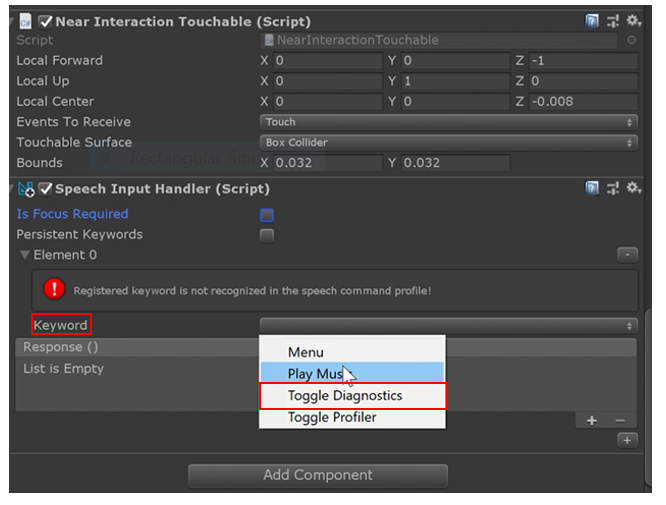
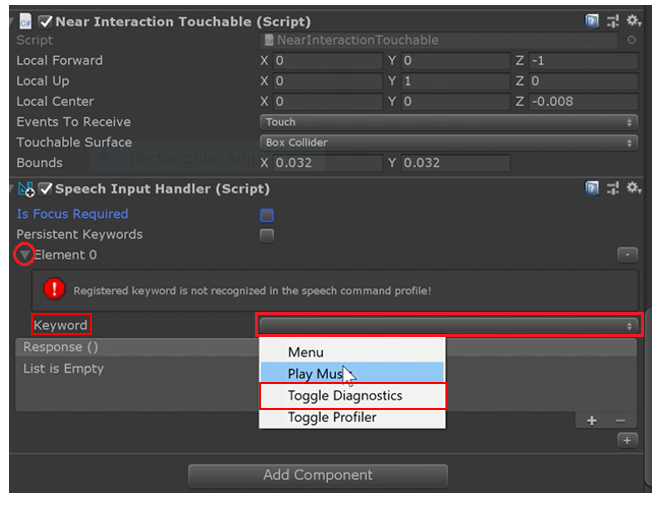
Addressing remaining feedback items through lesson 5

diff --git a/mixed-reality-docs/mrlearning-base-ch4.md b/mixed-reality-docs/mrlearning-base-ch4.md
@@ -28,33 +28,28 @@ In this lesson, we will go through basic 3D content and user experience. We will
 
 ![Lesson4 Chapter1 Step1im](images/Lesson4_Chapter1_step1im.PNG)
 
-2. Import BaseModule Assets Using the same instructions to import custom packages outlined in [Lesson1](mrlearning-base-ch1.md). The BaseModule assets include 3D modules and other useful scripts that will be used throughout this tutorial. The BaseModule unity package can be found here: <https://github.com/mr0ng/MixedRealityLearning/releases/tag/V1.1>
-
-   TODO: Check this link whether it works or not.
+2. Import BaseModule Assets Using the same instructions to import custom packages outlined in [Lesson1](mrlearning-base-ch1.md). The BaseModule assets include 3D modules and other useful scripts that will be used throughout this tutorial. The BaseModule unity package can be found here: <https://github.com/Microsoft/MixedRealityLearning/releases/tag/V1.1>
 
 3. The coffee cup prefab can be recognized by a blue cube next to it. Do not select the coffee cup with the blue cube and small white paper (that denotes the original 3D model and not the prefab.) 
 
 ![Lesson4 Chapter1 Noteaim](images/Lesson4_chapter1_noteaim.PNG)
-
->
 
 4. Drag the coffee cup prefab of your choice into the "3DObjectCollection" game object from step 1. The coffee cup is now a child of the collection.
 
 ![Lesson4 Chapter1 Step4ima](images/Lesson4_chapter1_step4ima.PNG)
 
 5. Next, we'll add more 3D objects into our scene. Below is a list of objects we are going to add in this example. As you add the objects you may find that they appear in your scene in various sizes. Adjust the scale of each 3D model under the transform setting in the inspector panel. Recommended adjustments for this example are listed with the objects below. 
-Search these words in the search box in your project panel and drag the 3D object prefab into the "3DObjectCollection" object similar to the previous step:
-- Search for “module.” Add TheModule. Set the scale to x = 0.03, y = 0.03, z = 0.03. 
-- Search for “Octa.” Add Octa. Set the scale to x = 0.13. y = 0.13, z =0.13.
-- Search for “earth.” Add EarthCore. Set the scale to x = 50.0 y = 50.0, z = 50.0.
-- Search for “Cheese.” Add Cheese. Set the scale to x = 0.05, y = 0.05, z = 0.05.
-- TODO: investigate why cheese is giving us problems - update prefab
-- Search for “platonic.” Add Model_Platonic. Set the scale to x = 0.13, y = 0.13, z = 0.13.
-- TODO: Add coffee cub scale
+Search these words in the search box in your project panel and drag the 3D object prefab into the "3DObjectCollection" object similar to the previous step. You will find these collection of prefabs in Assets>BaseModuleAssets>Base Module Prefabs
+- Search for “TheModule_BaseModuleIncomplete.” Drag into scene. Set the scale to x = 0.03, y = 0.03, z = 0.03. 
+- Search for “Octa_BaseModuleIncomplete.” Drag into scene. Set the scale to x = 0.13. y = 0.13, z =0.13.
+- Search for “EarthCore_BaseModuleIncomplete.” Drag into scene. Set the scale to x = 50.0 y = 50.0, z = 50.0.
+- Search for “Cheese_BaseModuleIncomplete.” Drag into scene. Set the scale to x = 0.05, y = 0.05, z = 0.05.
+- Search for “Model_Platonic_BaseModuleIncomplete.” Drag into scene. Set the scale to x = 0.13, y = 0.13, z = 0.13.
+- Search for "CoffeeCup_BaseModuleIncomplete." Drag into scene.
 
 ![Lesson4 Chapter1 Step5im](images/Lesson4_Chapter1_step5im.PNG)
 
-6. Add 3 cubes into your scene. Right click the “3DObjectCollection” object, select “3D Object”, then select “Cube.” Set the scale to x = 0.14, y = 0.14, and z = 0.14. Repeat this step 2 additional times to create a total of 3 cubes. Alternatively, you may duplicate the cube twice for a total of 3 cubes. 
+6. Add 3 cubes into your scene. Right click the “3DObjectCollection” object, select “3D Object”, then select “Cube.” Set the scale to x = 0.14, y = 0.14, and z = 0.14. Repeat this step 2 additional times to create a total of 3 cubes. Alternatively, you may duplicate the cube twice for a total of 3 cubes. You may also choose to use the three prepared cube prefabs from Assets>BaseModuleAssets>Base Module Prefabs and select GreenCube_BaseModuleIncomplete, BlueCube_BaseModuleIncomplete and OrangeCube_BaseModuleIncomplete.
 
 ![Lesson4 Chapter1 Step6im](images/Lesson4_Chapter1_step6im.PNG)
 
@@ -63,12 +58,6 @@ Search these words in the search box in your project panel and drag the 3D objec
 ![Lesson4 Chapter1 Notebim](images/Lesson4_chapter1_notebim.PNG)
 
 >Note: You may notice that some of the objects are off-center, such as the objects in the image above. This is because prefabs or objects may have child objects that are not aligned. Feel free to make any necessary adjustments to object positions or child object positions to achieve a well-aligned grid.
-
-TODO: update prefabs so that things are better aligned by default
-
-TODO: change surface type from sphere to plane
-
-TODO: make sure parent object alignment is good
 
 
 ### Manipulating 3D Objects
@@ -83,8 +72,6 @@ TODO: make sure parent object alignment is good
 ![Lesson4 Chapter2 Step1im](images/Lesson4_chapter2_step1im.PNG)
 
 >The manipulation handler is a component that will allow you to adjust settings for how objects behave when being manipulated. This includes rotation, scaling, moving, and constraining movement on certain axes. 
-
-
 
 2. Restrict one cube so that it can only be scaled. Select one cube in the “3DObjectCollection” object. In the inspector panel, next to “two handed manipulation type,” click the drop-down menu and select “scale.” This makes it so that the user can only change the cube’s size.
 
@@ -112,15 +99,13 @@ Goal of the next few steps: We will enable grab and interaction with our 3D obje
 
 ![Lesson4 Chapter2 Step6im](images/Lesson4_Chapter2_step6im.PNG)
 
-7. Add “Near Interaction Grabbable” to the Octa object and the Platonic object  by repeating step 5 and 6 on those objects.
+7. Add “Near Interaction Grabbable” to the Octa object, Platonic object, earth core, lunar module, and coffee cup  by repeating step 5 and 6 on those objects.
 
 8. Remove the ability of far manipulation from the Octa object. To do this, select the Octa in the hierarchy, and uncheck the “allow far manipulation” checkbox (marked by a green circle). This makes it so that users can only interact with the octa directly using tracked hands.
 
 >Note: For the full documentation of the manipulation handler component and it's associated settings, please refer to the [MRTK Documentation](https://microsoft.github.io/MixedRealityToolkit-Unity/Documentation/README_ManipulationHandler.html).
 
-9. Add the near interaction grabbable component to the earth core, the lunar module and the coffee cup by repeating step 5 and 6 on those objects.
-
-   TODO: Combine steps 7 and 9, since they are the same steps
+9. Ensure that the "Near Interaction Grabbable" component has been added to the earth core, the lunar module and the coffee cup (see step 7).
 
 10. For the lunar module, change the Manipulation Handler settings so that it rotates about the object's center for both near and far interaction, as shown in the image below.
 
@@ -128,19 +113,16 @@ Goal of the next few steps: We will enable grab and interaction with our 3D obje
 
 11: For the earth core, change the release behavior to “nothing.” This makes it so that once the earth core is released from the users’ grasp, it doesn’t continue to move. 
 
-TODO: 
-
 ![Lesson4 Chapter2 Step11im](images/Lesson4_Chapter2_step11im.PNG)
 
 > Note: This setting is useful for scenarios such as creating a ball that you can throw. Keeping the velocity and the angular velocity makes it so that once the ball is released it will continue to move at the velocity it was released at, similar to how a physical ball would behave.
 
 ### Adding Bounding Boxes
 Bounding boxes make it easier and more intuitive to manipulate objects with one hand for both direct manipulation (near interaction) and ray-based manipulation (far interaction.) Bounding boxes offer "handles" that can be grabbed for scaling and rotating objects along specific axes.
->Note: Before you can add a bounding box to an object you first need to have a collider on the object (e.g., a box collider.) - TODO - say that we covered this above, provide brief instructions.
+>Note: Before you can add a bounding box to an object you first need to have a collider on the object (e.g., a box collider.) As we did previously in this lesson. Colliders can be added by selecting the object, and in the object's inspector panel selecting Add Component>Box Collider.
 >
->TODO: change earth core so that users don't have to deal with node_id30 (may already be fixed with RC1)
 
-1. Add a box collider to the earth core object, if one does not already exist. In the case of the earth core, we will need to add the box collider to the "node_id30" object underneath the earth core, as shown in the image below. select node_id30 and in the object's inspector tab, click “add component” and search for “box collider.” 
+1. Add a box collider to the earth core object, if one does not already exist (box collider and setup not required if using the prefab provided in the Base Module Assets folder, per the instructions given.) In the case of the earth core, we will need to add the box collider to the "node_id30" object underneath the earth core, as shown in the image below. select node_id30 and in the object's inspector tab, click “add component” and search for “box collider.” 
 
 ![Lesson4 Chapter3 Step1im](images/Lesson4_Chapter3_step1im.PNG)
 
@@ -174,7 +156,7 @@ Bounding boxes make it easier and more intuitive to manipulate objects with one 
 
 ![Lesson4 Chapter3 Step8im](images/Lesson4_Chapter3_step8im.PNG)
 
-9. To return to the default bounding box visualization, in the inspector panel of the bounding box's object, select the rotation handle prefab and press the delete key, you will now see a bounding box visualization similar to the image below. TODO: this only shows up in play mode.
+9. To return to the default bounding box visualization, in the inspector panel of the bounding box's object, select the rotation handle prefab and press the delete key, you will now see a bounding box visualization similar to the image below. Note: the bounding box visualizations only appears when in play mode.
 
 ![Lesson4 Chapter3 Step9im](images/Lesson4_chapter3_step9im.PNG)
 
@@ -202,7 +184,7 @@ In this example, we are going to play a sound effect when you touch an object wi
 
 4. Click the “+” button on the “on touch started” option, as shown in the image below. Drag the octa object into the empty field. 
 
-5. TODO: add description on how to get from "no function" to playoneshot.... Select "AudioSource.PlayOneShot" from the dropdown list (the dropdown list above the green box in the image below.) We will add an audio clip to this field using the concepts below:
+5. In the drop-down that says "no function" (above green rectangle in the image below), select AudioSource> PlayOneShot. We will add an audio clip to this field using the concepts below:
 
    - The MRTK does provide a small list of audio clips. Feel free to explore these in your project panel. You will find them under the “MixedRealityToolkit.SDK” folder and then the “standard assets” folder. There you will see an “audio” folder where all the audio clips are.
    - For this example, we are going to use the "MRTK_Gem" audio clip. 

diff --git a/mixed-reality-docs/mrlearning-base-ch5.md b/mixed-reality-docs/mrlearning-base-ch5.md
@@ -55,11 +55,11 @@ By default, you will see 2 checkboxes, one is the “is focus required” checkb
 
 ![Lesson5 Chapter1 Step5im](images/Lesson5_chapter1_step5im.PNG)
 
-6. Next to “Keyword” you will see a dropdown menu. Select “Toggle Diagnostics.” This will make it so that whenever the user says the phrase, “toggle diagnostics” it will trigger an action. TODO: add note that you may need to expand "element 0" by pressing the arrow next to it.
+6. Next to “Keyword” you will see a dropdown menu. Select “Toggle Diagnostics.” This will make it so that whenever the user says the phrase, “toggle diagnostics” it will trigger an action. Note that you may need to expand "element 0" by pressing the arrow next to it.
 
 ![Lesson5 Chapter1 Step6im](images/Lesson5_chapter1_step6im.PNG)
 
-7. Add the “diagnostics demo control script” to toggle the framerate counter diagnostic on and off. To do this, press the “add component” button and search for “diagnostics demo control script” then add it from the menu. This script can be added to any object, but for simplicity, we will add it to the same object as the speech input handler. TODO: split screenshot into two screenshots, one for step 7 and another for step 8.
+7. Add the “diagnostics demo control script” to toggle the framerate counter diagnostic on and off. To do this, press the “add component” button and search for “diagnostics demo control script” then add it from the menu. This script can be added to any object, but for simplicity, we will add it to the same object as the speech input handler. 
 
    > Note: this script is only included with these modules and is not included with the original MRTK.
 
@@ -67,21 +67,20 @@ By default, you will see 2 checkboxes, one is the “is focus required” checkb
 
 8. Add a new response in the Speech Input Handler. To do this click the “+” button underneath where it says “response ()” (marked by green arrow in the picture above).
 
-
+![Lesson5 Chapter1 Step7im](images/Lesson5_chapter1_step8.PNG)
 
 9. Drag the object that has the Diagnostics Demo Controls script to the new response you just created in step 8.
     ![Lesson5 Chapter1 Step9im](images/Lesson5_chapter1_step9im.PNG)
 
-10. Now select the “no function” dropdown list, select diagnostic demo controls, then “on toggle diagnostics ().” This function toggles your diagnostics on and off. TODO: this number 10 appears as the letter j on docs website - see what might be happening. May have just fixed it by indenting.
-     ![Lesson5 Chapter1 Step10im](images/Lesson5_chapter1_step10im.PNG)
-
-    > Note that before building to your device you need to enable mic settings. To do that click on file, go to build settings, from there, player settings, and ensure the microphone capability is set.
+10. Now select the “no function” dropdown list, select diagnostic demo controls, then “on toggle diagnostics ().” This function toggles your diagnostics on and off.  ![Lesson5 Chapter1 Step10im](images/Lesson5_chapter1_step10im.PNG)
+    
+> Note that before building to your device you need to enable mic settings. To do that click on file, go to build settings, from there, player settings, and ensure the microphone capability is set.
 
 Next, we are adding the ability to play an audio file from voice command using the "octa" object. Recall from [lesson 4](mrlearning-base-ch4.md), we added the ability to play an audio clip from touching the octa object. We will leverage this same audio source for our music voice command.
 
 11. Select the octa object in the base scene hierarchy.
 
-12. Repeat steps 4 and 5, but with the octa object. TODO: expand on what needs to be done, but then refer back to steps 4 and 5, so that users have an idea of what to do.
+12. Add another speech input handler (repeat steps 4 and 5), but with the octa object. 
 
 13. Instead of adding the “Toggle Diagnostics” voice command from step 6, add the “play music” voice command, as shown in the image below.
     
@@ -135,8 +134,6 @@ To use the pan gesture, you will need a collider on your object. You may see the
 
 ![Lesson5 Chapter2 Step8im](images/Lesson5_chapter2_step8im.PNG)
 
-TODO: make sure checkmarks are in the two boxes above.
-
 9. In the hand interaction pan script, the “lock horizontal” and “lock vertical” checkboxes will lock the movements, respectively. The wrap texture settings will make the texture (texture mapping) follow the user's pan movements. For this example, we are going to check that box. There is also “velocity active” which, if unchecked, the pan gesture will not work. Check this box as well. Now you should have a pan-enabled quad.
 
    
@@ -169,14 +166,19 @@ TODO: make sure checkmarks are in the two boxes above.
 
 In this chapter, we will explore how to enable eye tracking in our demo. We will slowly spin our 3D menu items when they are being gazed upon with eye gaze. We will also trigger a fun effect when the gazed-upon item is selected.
 
-1. Ensure the Mixed Reality Toolkit profiles are properly configured. As of this writing, the mixed reality toolkit profile configuration does not include eye tracking capabilities by default. To add eye tracking capabilities, follow the instructions in the “Setting up the MRTK profiles required for Eye Tracking” section as outlined in the Mixed Reality Toolkit Documentation (https://microsoft.github.io/MixedRealityToolkit-Unity/Documentation/EyeTracking/EyeTracking_BasicSetup.html#setting-up-the-mrtk-profiles-required-for-eye-tracking  ). Ensure that eye tracking is properly configured by following any remaining steps in the documentation link above, including enabling eye tracking in GazeProvider (component attached to camera) and enabling simulation of eye tracking in the Unity editor. Note that future version of the MRTK may include eye tracking by default.
+1. Ensure the Mixed Reality Toolkit profiles are properly configured. As of this writing, the mixed reality toolkit profile configuration does not include eye tracking capabilities by default. To add eye tracking capabilities, follow the instructions in the “Setting up the MRTK profiles required for Eye Tracking” section as outlined in the [Mixed Reality Toolkit Documentation](https://microsoft.github.io/MixedRealityToolkit-Unity/Documentation/EyeTracking/EyeTracking_BasicSetup.html#setting-up-the-mrtk-profiles-required-for-eye-tracking  ). Ensure that eye tracking is properly configured by following any remaining steps in the documentation link above, including enabling eye tracking in GazeProvider (component attached to camera) and enabling simulation of eye tracking in the Unity editor. Note that future version of the MRTK may include eye tracking by default.
 
-    Todo: provide the user with some brief instructions for eye tracking so they don't have to go to the MRTK link.
+    The link above provides brief instructions for:
 
-2. Add the Eye Tracking Target component to target objects. To allow an object to respond to eye gaze events, we will need to add the EyeTrackingTarget component on each object that we wish to interact with using eye gaze. Tip: select multiple items in the hierarchy to bulk-add the EyeTrackingTarget component.
+    - Creating the Eye Gaze Data Provider for use in the MRTK Profile
+    - Enabling eye tracking in the Gaze Provider
+    - Set up for simulating eye tracking in the editor
+    - Editing the Visual Studio solution's capabilities to allow eye tracking in the built application
+
+2. Add the Eye Tracking Target component to target objects. To allow an object to respond to eye gaze events, we will need to add the EyeTrackingTarget component on each object that we wish to interact with using eye gaze. Add this component to each of the nine 3D objects that are part of the grid collection. Tip: select multiple items in the hierarchy to bulk-add the EyeTrackingTarget component.
     ![Lesson5 Chapter3 Step2](images/Lesson5Chapter3Step2.JPG)
 
-3. Next we will add the EyeTrackingTutorialDemo script for some exciting interactions. The EyeTrackingTutorialDemo script is included as part of this tutorial series’ repository and is not included by default with the Mixed Reality Toolkit. For... TODO: rename 3D menu item.... each 3D menu item, add the EyeTrackingTutorialDemo script by searching for the component in the “Add Component” menu. TODO: make sure it's the same objects as specified in #2. 
+3. Next we will add the EyeTrackingTutorialDemo script for some exciting interactions. The EyeTrackingTutorialDemo script is included as part of this tutorial series’ repository and is not included by default with the Mixed Reality Toolkit. For each 3D object in the grid collection, add the EyeTrackingTutorialDemo script by searching for the component in the “Add Component” menu.
    ![Lesson5 Chapter3 Step3](images/Lesson5Chapter3Step3.JPG)
 
    4. Spin the object while looking at the target. We would like to configure our 3D object to spin while we are looking at it. To do this, insert a new field in the “While Looking At Target” section of the EyeTrackingTarget component, as shown in the image below. 
